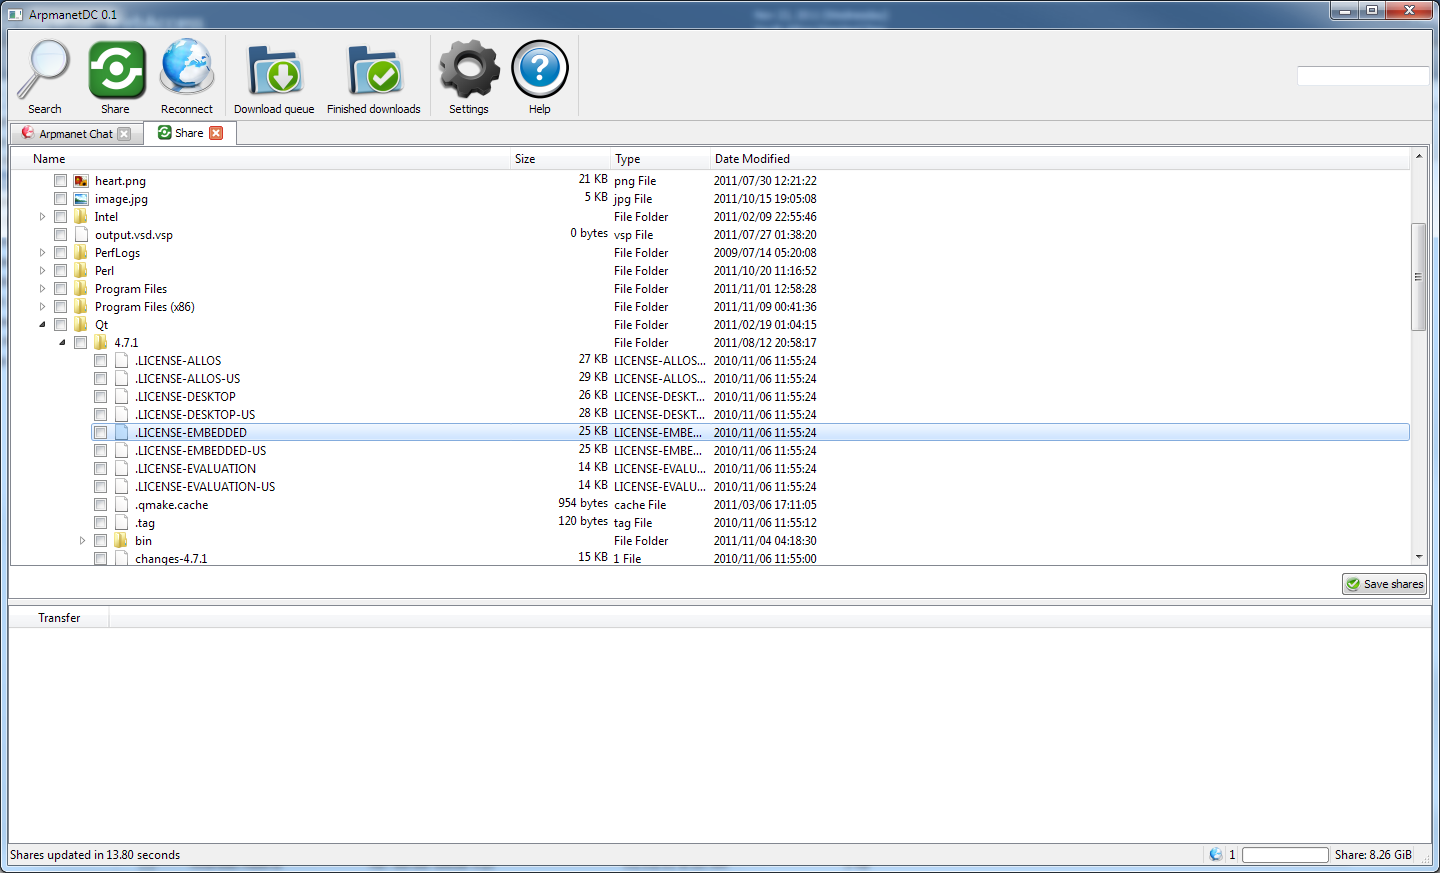
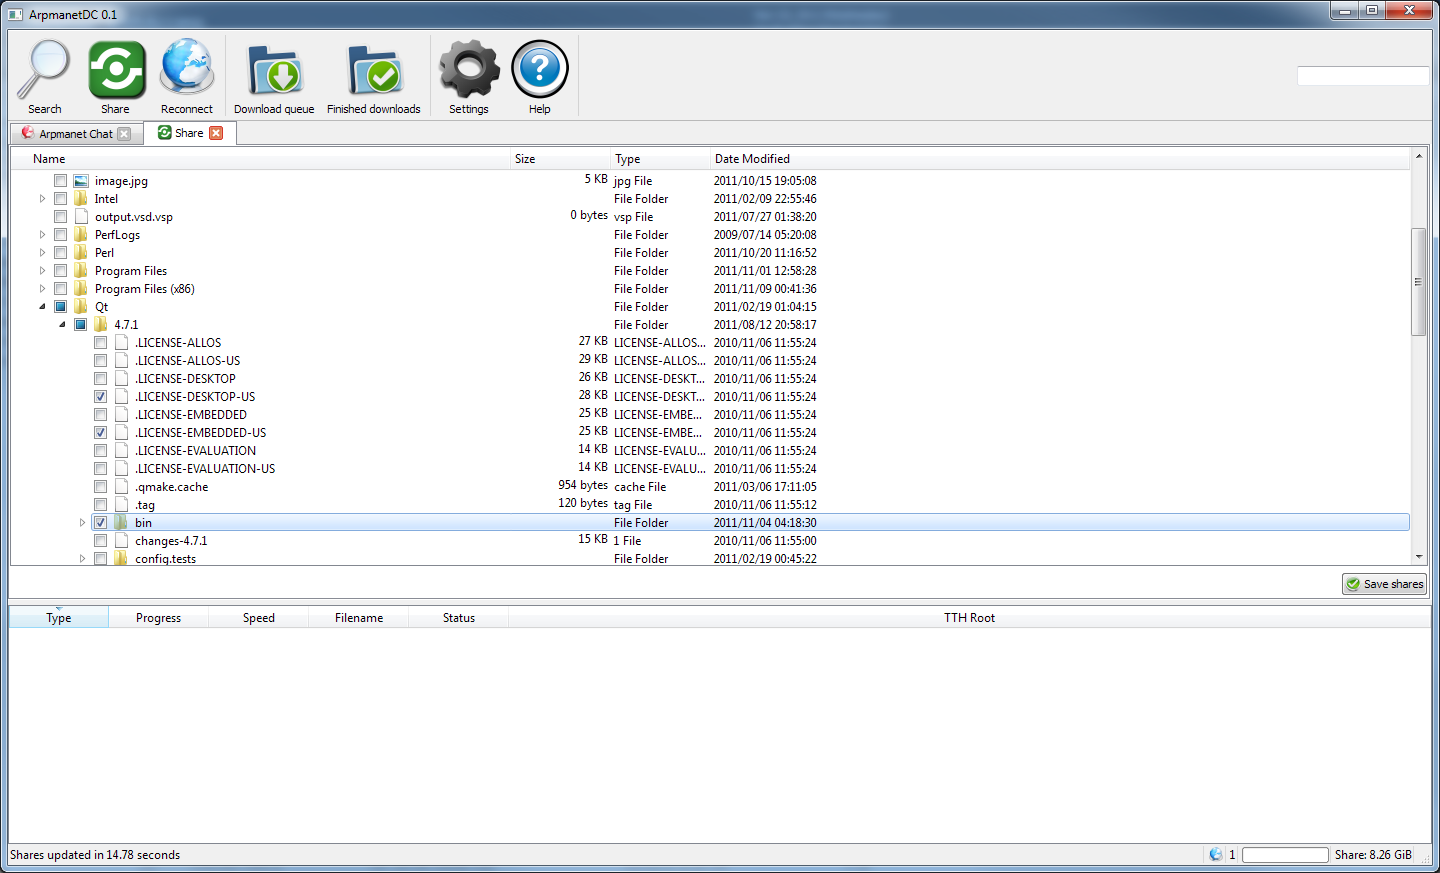
Aesthetics
- Decreased all table's row heights from astronomical to something more
  pleasing
- Altered the screenshots to actually show what it's supposed to
- Added new custom row height function in util that's MUCH faster than
  default function

diff --git a/downloadqueuewidget.cpp b/downloadqueuewidget.cpp
@@ -25,7 +25,7 @@ void DownloadQueueWidget::createWidgets()
 {
 	//Table View
 	queueTable = new QTableView();
-	queueTable->setShowGrid(true);
+	queueTable->setShowGrid(false);
 	queueTable->setGridStyle(Qt::DotLine);
 	queueTable->verticalHeader()->hide();
 	queueTable->setSelectionBehavior(QAbstractItemView::SelectRows);
@@ -53,7 +53,6 @@ void DownloadQueueWidget::createWidgets()
 	setPriorityNormalAction = new QAction(QIcon(":/ArpmanetDC/Resources/QueueIcon.png"), tr("Normal priority"), this);
 	setPriorityHighAction = new QAction(QIcon(":/ArpmanetDC/Resources/HighPriorityIcon.png"), tr("High priority"), this);
 	deleteAction = new QAction(QIcon(":/ArpmanetDC/Resources/RemoveIcon.png"), tr("Delete"), this);
-	searchForAlternatesAction = new QAction(QIcon(":/ArpmanetDC/Resources/SearchIcon.png"), tr("Search for alternates"), this);
 
     //===== Menus =====
     setPriorityMenu = new QMenu(tr("Set priority"), pParent);
@@ -62,7 +61,6 @@ void DownloadQueueWidget::createWidgets()
 	setPriorityMenu->addAction(setPriorityLowAction);
 
 	queueMenu = new QMenu(pParent);
-	//queueMenu->addAction(searchForAlternatesAction);
 	queueMenu->addAction(deleteAction);
 	queueMenu->addSeparator();
 	queueMenu->addMenu(setPriorityMenu);
@@ -81,7 +79,6 @@ void DownloadQueueWidget::connectWidgets()
 	connect(setPriorityNormalAction, SIGNAL(triggered()), this, SLOT(setPriorityNormalActionPressed()));
 	connect(setPriorityHighAction, SIGNAL(triggered()), this, SLOT(setPriorityHighActionPressed()));
 	connect(deleteAction, SIGNAL(triggered()), this, SLOT(deleteActionPressed()));
-	connect(searchForAlternatesAction, SIGNAL(triggered()), this, SLOT(searchForAlternatesActionPressed()));
 }
 
 void DownloadQueueWidget::showQueueTableContextMenu(const QPoint &point)
@@ -169,30 +166,8 @@ void DownloadQueueWidget::deleteActionPressed()
         QByteArray tthRoot;
         tthRoot.append(base32TTH);
         base32Decode(tthRoot);   
-        
-        //TODO: Remove entry from list
 
 	    pParent->deleteFromQueue(tthRoot);
-    }
-}
-
-void DownloadQueueWidget::searchForAlternatesActionPressed()
-{
-    //Not implemented - seems kinda silly to use the download queue to search for alternates? Will remove later
-    return;
-
-	for (int i = 0; i < queueTable->selectionModel()->selectedRows().size(); i++)
-    {
-        //Get selected files
-	    QModelIndex selectedIndex = queueTable->selectionModel()->selectedRows().at(i);//userListTable->selectionModel()->selection().indexes().first();
-	    //Get TTH of file
-	    QString base32TTH = queueModel->data(queueModel->index(selectedIndex.row(), 4)).toString();
-
-        QByteArray *tthRoot = new QByteArray();
-        tthRoot->append(base32TTH);
-        base32Decode(*tthRoot);  
-
-        //pParent->searchForAlternates(tthRoot);
     }
 }
 
@@ -203,12 +178,15 @@ void DownloadQueueWidget::loadQueueList()
 	queueModel->removeRows(0, queueModel->rowCount());
 
     QList<QueueStruct> list = pQueueList->values();
+    if (list.isEmpty())
+        return;
+
 	for (int i = 0; i < list.size(); i++)
 	{
-		queueModel->appendRow(new QStandardItem());
-        queueModel->setItem(i, 0, new CStandardItem(CStandardItem::CaseInsensitiveTextType, list.at(i).fileName));
-		queueModel->setItem(i, 1, new CStandardItem(CStandardItem::CaseInsensitiveTextType, list.at(i).filePath));
-        queueModel->setItem(i, 2, new CStandardItem(CStandardItem::SizeType, bytesToSize(list.at(i).fileSize)));
+		QList<QStandardItem *> row;
+        row.append(new CStandardItem(CStandardItem::CaseInsensitiveTextType, list.at(i).fileName));
+        row.append(new CStandardItem(CStandardItem::CaseInsensitiveTextType, list.at(i).filePath));
+        row.append(new CStandardItem(CStandardItem::SizeType, bytesToSize(list.at(i).fileSize)));
 
 		QString priorityStr;
 		switch (list.at(i).priority)
@@ -223,21 +201,24 @@ void DownloadQueueWidget::loadQueueList()
 			priorityStr = "High";
 			break;
 		}
-
-        queueModel->setItem(i, 3, new CStandardItem(CStandardItem::PriorityType, priorityStr));
+        row.append(new CStandardItem(CStandardItem::PriorityType, priorityStr));
+        
         QByteArray tthBase32(list.at(i).tthRoot->data());
         base32Encode(tthBase32);
+        row.append(new QStandardItem(tthBase32.data()));
+		
+        queueModel->appendRow(row);
+    }
 
-		queueModel->setItem(i, 4, new QStandardItem(tthBase32.data()));
-	}
+    resizeRowsToContents(queueTable);
 }
 
 void DownloadQueueWidget::addQueuedDownload(QueueStruct file)
 {
-	queueModel->appendRow(new QStandardItem());
-	queueModel->setItem(queueModel->rowCount()-1, 0, new CStandardItem(CStandardItem::CaseInsensitiveTextType, file.fileName));
-    queueModel->setItem(queueModel->rowCount()-1, 1, new CStandardItem(CStandardItem::CaseInsensitiveTextType, file.filePath));
-    queueModel->setItem(queueModel->rowCount()-1, 2, new CStandardItem(CStandardItem::SizeType, bytesToSize(file.fileSize)));
+	QList<QStandardItem *> row;
+    row.append(new CStandardItem(CStandardItem::CaseInsensitiveTextType, file.fileName));
+    row.append(new CStandardItem(CStandardItem::CaseInsensitiveTextType, file.filePath));
+    row.append(new CStandardItem(CStandardItem::SizeType, bytesToSize(file.fileSize)));
 
 	QString priorityStr;
 	switch (file.priority)
@@ -252,15 +233,18 @@ void DownloadQueueWidget::addQueuedDownload(QueueStruct file)
 		priorityStr = "High";
 		break;
 	}
+    row.append(new CStandardItem(CStandardItem::PriorityType, priorityStr));
 
-    queueModel->setItem(queueModel->rowCount()-1, 3, new CStandardItem(CStandardItem::PriorityType, priorityStr));
     QByteArray tthBase32(file.tthRoot->data());
     base32Encode(tthBase32);
-	queueModel->setItem(queueModel->rowCount()-1, 4, new QStandardItem(tthBase32.data()));
+    row.append(new QStandardItem(tthBase32.data()));
+	
+    queueModel->appendRow(row); 
+
+    resizeRowsToContents(queueTable);
 }
 
 QWidget *DownloadQueueWidget::widget()
 {
-	//TODO: Return widget containing all search widgets
 	return pWidget;
 }

diff --git a/downloadfinishedwidget.cpp b/downloadfinishedwidget.cpp
@@ -24,7 +24,7 @@ void DownloadFinishedWidget::createWidgets()
 {
 	//Table View
 	finishedTable = new QTableView();
-	finishedTable->setShowGrid(true);
+	finishedTable->setShowGrid(false);
 	finishedTable->setGridStyle(Qt::DotLine);
 	finishedTable->verticalHeader()->hide();
 	finishedTable->setSelectionBehavior(QAbstractItemView::SelectRows);
@@ -116,6 +116,8 @@ void DownloadFinishedWidget::returnFinishedList(QList<FinishedDownloadStruct> *l
 		finishedModel->setItem(i, 4, new QStandardItem(pFinishedList->at(i).tthRoot->toBase64().data()));
 		finishedModel->setItem(i, 5, new QStandardItem(pFinishedList->at(i).downloadedDate));
 	}
+
+    resizeRowsToContents(finishedTable);
 }
 
 //Add an entry
@@ -127,6 +129,9 @@ void DownloadFinishedWidget::addFinishedDownload(FinishedDownloadStruct file)
 	finishedModel->setItem(finishedModel->rowCount()-1, 2, new QStandardItem(tr("%1").arg(file.fileSize)));
 	finishedModel->setItem(finishedModel->rowCount()-1, 4, new QStandardItem(file.tthRoot->toBase64().data()));
 	finishedModel->setItem(finishedModel->rowCount()-1, 5, new QStandardItem(file.downloadedDate));
+
+    //Adjust row height
+    resizeRowsToContents(finishedTable);
 }
 
 void DownloadFinishedWidget::loadFinishedDownloads()

diff --git a/transferwidget.cpp b/transferwidget.cpp
@@ -49,7 +49,7 @@ void TransferWidget::createWidgets()
 	transferListTable->horizontalHeader()->setResizeMode(QHeaderView::Interactive);
 
 	//Style
-	transferListTable->setShowGrid(true);
+	transferListTable->setShowGrid(false);
 	transferListTable->setGridStyle(Qt::DotLine);
 	transferListTable->verticalHeader()->hide();
     transferListTable->horizontalHeader()->setHighlightSections(false);
@@ -138,6 +138,9 @@ void TransferWidget::updateStatus()
             item->setText(base32TTH.data());
         }
     }
+
+    //Adjust row height
+    resizeRowsToContents(transferListTable);
 
     //Sort table
     int column = transferListTable->horizontalHeader()->sortIndicatorSection();

diff --git a/downloadqueuewidget.h b/downloadqueuewidget.h
@@ -45,11 +45,9 @@ private slots:
 	void setPriorityNormalActionPressed();
 	void setPriorityHighActionPressed();
 	void deleteActionPressed();
-	void searchForAlternatesActionPressed();
 
 signals:
 	//Signals
-	void searchForAlternates(QByteArray tthRoot);
 	void setPriority(QByteArray tthRoot, QueuePriority priority);
 	void deleteFromQueue(QByteArray tthRoot);
 
@@ -79,7 +77,7 @@ private:
     QMenu *queueMenu, *setPriorityMenu;
 
 	QAction *setPriorityLowAction, *setPriorityNormalAction, *setPriorityHighAction;
-	QAction *deleteAction, *searchForAlternatesAction;
+	QAction *deleteAction;
 };
 
 #endif

diff --git a/util.h b/util.h
@@ -6,6 +6,7 @@
 #include <QRegExp>
 #include <QString>
 #include <QDataStream>
+#include <QTableView>
 #include "base32.h"
 
 typedef unsigned char byte;
@@ -29,6 +30,8 @@ QString bytesToRate(quint64 rate);
 quint64 sizeToBytes(QString size);
 //Function to convert human readable rate into bytes
 quint64 rateToBytes(QString rate);
+//Function to adjust a tableviews rows to fit contents (much faster fixed size version)
+void resizeRowsToContents(QTableView *tableView);
 
 QByteArray toQByteArray(quint16 n);
 QByteArray toQByteArray(quint32 n);

diff --git a/util.cpp b/util.cpp
@@ -146,6 +146,16 @@ quint64 rateToBytes(QString rate)
     return sizeToBytes(rate.replace("/s", ""));
 }
 
+void resizeRowsToContents(QTableView *tableView)
+{
+    if (!tableView)
+        return;
+
+    tableView->resizeRowToContents(0);
+    for (int i = 1; i < tableView->model()->rowCount(); i++)
+        tableView->setRowHeight(i, tableView->rowHeight(0));
+}
+
 
 // ------------------=====================   Sort STUKKENDE rubbish uit   =====================----------------------
 

diff --git a/arpmanetdc.cpp b/arpmanetdc.cpp
@@ -1068,7 +1068,7 @@ void ArpmanetDC::sortUserList()
 	if (sortDue)
 	{
 		userSortProxy->sort(2, Qt::AscendingOrder);
-		userListTable->resizeRowsToContents();
+		resizeRowsToContents(userListTable);
 		sortDue = false;
 	}
 }

diff --git a/arpmanetdc.h b/arpmanetdc.h
@@ -39,6 +39,8 @@
 
 #define VERSION_STRING "0.1"
 
+#define ROW_HEIGHT_MULTIPLIER 1.5
+
 //Main GUI window class
 class ArpmanetDC : public QMainWindow
 {
